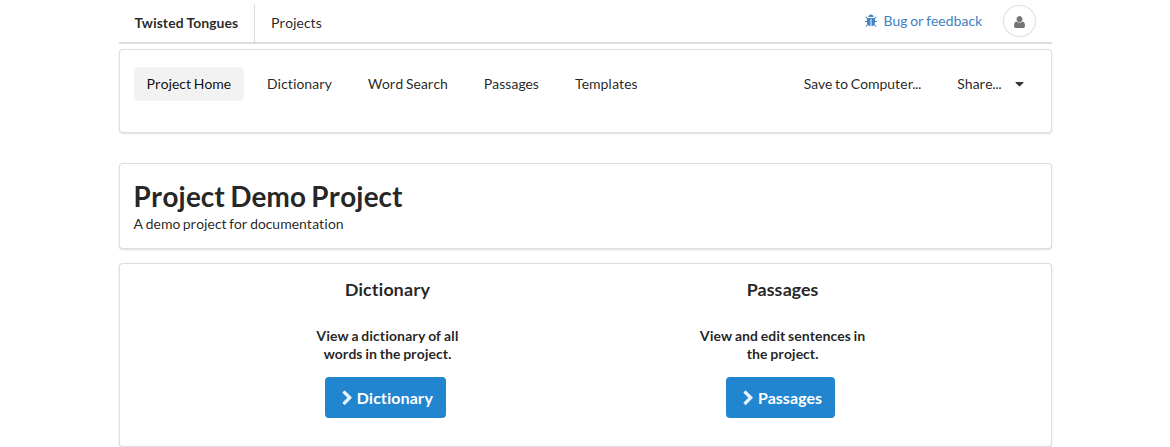
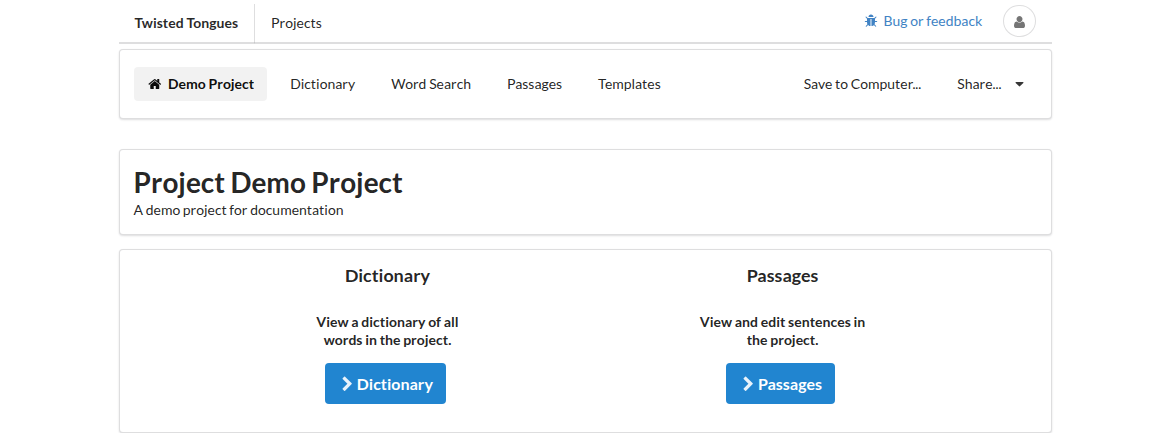
Refresh the manual's figures, and document the sentence row's menu (#23)
* Refresh the manual's figures, and document the sentence row's menu

All 25 figures regenerated against 20261024.2. The passage screen now shows
each sentence's line number and permanent id, one "More..." menu where three
buttons used to be, and the passage's description under its name. The first
nav tab names the project rather than reading "Project Home", which the
shipped figures never caught up with.

The dictionary figure reports six matches rather than two: the spec that
generates these had been typing all three demo sentences' words into the
first sentence (fixed in twisted-tongues-v2#217), so the manual was showing
a third of its own example data.

Section 4.2 gains the row menu -- Insert new above, Duplicate here,
Duplicate at end, Delete -- plus what a line number and an id each promise,
and what a reader following a Context link to a deleted sentence is told.
Both languages.

* Trim the 4.2 prose to the operations themselves

---------

diff --git a/src/manual.fr.md b/src/manual.fr.md
@@ -87,7 +87,7 @@ Les passages peuvent être découpés de la manière qui paraît la plus pertine
 
 ### 4.1 Créer un passage {#4.1-creating-a-passage}
 
-Pour créer un passage, allez dans l'onglet « Passages » et cliquez sur « Add Passage » (ajouter un passage). Nommez le passage et décrivez-le. Si vous le souhaitez, les métadonnées du passage peuvent être conservées dans la description (« Description »). Il est recommandé, lors de la création d'un passage, de choisir un *modèle* de pistes défini au préalable (voir section 3), qui sera présent dans chaque phrase de ce passage. Pour choisir un modèle, sélectionnez-le dans le menu déroulant « Tracks from template » (pistes issues d'un modèle) (figure 11). L'utilisateur peut aussi sélectionner « None » (aucun) dans le menu déroulant et personnaliser les pistes ajoutées pour ce passage précis. Après un clic sur « Submit », le passage est créé et ajouté à la liste des passages dans l'onglet « Passages » (figure 12). La ligne de chaque passage se termine par un bouton de menu (⋮). « Rename… » (renommer) y modifie le nom et la description du passage, et « Delete… » (supprimer) supprime le passage, après vous avoir demandé de confirmer que vous souhaitez le supprimer définitivement (figure 13). Les lecteurs ne voient pas ce menu.
+Pour créer un passage, allez dans l'onglet « Passages » et cliquez sur « Add Passage » (ajouter un passage). Nommez le passage et décrivez-le. Si vous le souhaitez, les métadonnées du passage peuvent être conservées dans la description (« Description »), qui s'affiche sous le nom du passage lorsque celui-ci est ouvert. Il est recommandé, lors de la création d'un passage, de choisir un *modèle* de pistes défini au préalable (voir section 3), qui sera présent dans chaque phrase de ce passage. Pour choisir un modèle, sélectionnez-le dans le menu déroulant « Tracks from template » (pistes issues d'un modèle) (figure 11). L'utilisateur peut aussi sélectionner « None » (aucun) dans le menu déroulant et personnaliser les pistes ajoutées pour ce passage précis. Après un clic sur « Submit », le passage est créé et ajouté à la liste des passages dans l'onglet « Passages » (figure 12). La ligne de chaque passage se termine par un bouton de menu (⋮). « Rename… » (renommer) y modifie le nom et la description du passage, et « Delete… » (supprimer) supprime le passage, après vous avoir demandé de confirmer que vous souhaitez le supprimer définitivement (figure 13). Les lecteurs ne voient pas ce menu.
 
 Figure 11\. Ajouter un passage et sélectionner un modèle.  
 ![](images/figure_011_add_passage_and_select_template.png)
@@ -101,6 +101,10 @@ Figure 13\. Supprimer un passage.
 ### 4.2 Saisir des données dans un passage {#4.2-entering-data-into-a-passage}
 
 Dans l'onglet « Passages », cliquez sur un passage pour en consulter et en modifier les données. Si aucune donnée n'a encore été saisie pour le passage sélectionné, celui-ci est vide. Pour ajouter des phrases à remplir, cliquez sur « Add sentence » (ajouter une phrase). Si un modèle a été choisi pour le passage, les pistes associées apparaissent à l'ajout d'une phrase. Il suffit alors de taper pour saisir les données de la phrase. Chaque nouvelle phrase ajoutée est par défaut marquée comme grammaticale (« Grammatical »), avec une case cochée dans le coin supérieur gauche de l'énoncé. Pour marquer une phrase comme agrammaticale, décochez la case. Chaque phrase est de même marquée par défaut comme appropriée (« Felicitous ») ; pour marquer une phrase comme pragmatiquement inappropriée, décochez cette case (voir la section 5.1.3 pour l'effet de ces marquages sur la recherche et l'export). Dès que des données sont ajoutées à une phrase (figure 14), le bouton vert « clean » (propre) devient un bouton jaune « dirty » (non sauvegardé), ce qui signifie que les données ajoutées ne sont pas encore enregistrées (figure 15). Avant de quitter la page, il vous sera proposé d'enregistrer toutes les données nouvellement saisies. En cas de conflit — plusieurs utilisateurs tentant de modifier la même phrase simultanément, ou un même utilisateur essayant d'enregistrer deux versions de la même phrase avant que la page n'ait sauvegardé la première modification —, un bouton rouge « Conflict » (conflit) peut apparaître (figure 16). Dans ce cas, il suffit d'actualiser la page. Pour ajouter d'autres données, cliquez sur « Add sentence » et répétez la procédure ci-dessus.
+
+Les phrases sont numérotées sur la gauche du passage — (1), (2), (3) — et chaque ligne affiche également un identifiant permanent. Les numéros changent dès qu'une phrase est ajoutée ou supprimée au-dessus ; l'identifiant, lui, ne change pas, de sorte qu'un lien « Context » (section 5.4) ouvre toujours la même phrase.
+
+La ligne de chaque phrase porte un menu « More… » (plus), qui regroupe les opérations les moins courantes. « Insert new above » (insérer au-dessus) place une phrase vide juste au-dessus de cette ligne. « Duplicate here » (dupliquer ici) copie la phrase sur la ligne immédiatement en dessous, et « Duplicate at end » (dupliquer à la fin) la copie tout en bas du passage. « Delete… » (supprimer) supprime la phrase, après vous avoir demandé de confirmer. Une phrase comportant des modifications non enregistrées ne peut être ni copiée ni supprimée : enregistrez-la d'abord. Les lecteurs ne voient pas ce menu.
 
 Figure 14\. Ajouter une phrase, avant la saisie des données.  
 ![](images/figure_014_add_sentence_empty.png)

diff --git a/src/manual.md b/src/manual.md
@@ -87,7 +87,7 @@ Passages can be divided however the user decides makes the most sense for a give
 
 ### 4.1 Creating a passage {#4.1-creating-a-passage}
 
-To create a passage, go to the Passages tab, and click on “Add Passage”. Name the passage and describe it. If desired, passage metadata can be stored in the “Description”. It is recommended upon creating a passage to choose a previously defined *template* of tracks (see section 3), which will be present in each sentence in that passage. To choose a template, select one from the drop-down menu labelled “Tracks from template” (Figure 11). Alternatively, the user can select “None” in the drop-down menu and can customize the tracks added for the specific passage. Upon clicking “Submit”, the passage will be created and added to the list of passages in the Passages tab (Figure 12). Each passage's row ends in a menu button (⋮). “Rename…” there changes the passage's name and description, and “Delete…” removes the passage, after asking you to confirm that you would like to permanently delete it (Figure 13). Readers see no menu.
+To create a passage, go to the Passages tab, and click on “Add Passage”. Name the passage and describe it. If desired, passage metadata can be stored in the “Description”, which is shown under the passage's name when the passage is open. It is recommended upon creating a passage to choose a previously defined *template* of tracks (see section 3), which will be present in each sentence in that passage. To choose a template, select one from the drop-down menu labelled “Tracks from template” (Figure 11). Alternatively, the user can select “None” in the drop-down menu and can customize the tracks added for the specific passage. Upon clicking “Submit”, the passage will be created and added to the list of passages in the Passages tab (Figure 12). Each passage's row ends in a menu button (⋮). “Rename…” there changes the passage's name and description, and “Delete…” removes the passage, after asking you to confirm that you would like to permanently delete it (Figure 13). Readers see no menu.
 
 Figure 11\. Add passage and select template.  
 ![](images/figure_011_add_passage_and_select_template.png)
@@ -101,6 +101,10 @@ Figure 13\. Delete passage.
 ### 4.2 Entering data into a passage {#4.2-entering-data-into-a-passage}
 
 In the Passages tab, click a passage to view and edit the data in it. If no data has yet been entered for the selected passage, the passage will be empty. To add sentences to be filled in, click “Add sentence”. If a template has been selected for the passage, tracks associated with that passage will appear upon adding a sentence. One can then type to enter data into the sentence. Each new sentence added is by default marked as “Grammatical” with a checkmark in the upper left corner of the utterance. To mark a sentence as ungrammatical, un-check the box. Each sentence is likewise marked as “Felicitous” by default; to mark a sentence as pragmatically infelicitous, un-check that box (see section 5.1.3 for how both markings affect search and export). Upon adding data to a sentence (Figure 14), the green “clean” button will change to a yellow “dirty” button, meaning that the added data is unsaved (Figure 15). Before leaving the page, you will be prompted to save all newly entered data. If there are conflicts with multiple users attempting to edit the same sentence simultaneously (or if a single user tries to save two versions of the same sentence before the page has backed up the first change), a red “Conflict” button may appear (Figure 16). If this is the case, simply refresh the page. To add additional data, click “Add sentence”, and repeat the above process.
+
+Sentences are numbered down the left of the passage — (1), (2), (3) — and each row also shows a permanent id. The numbers change as sentences are added or removed above them; the id does not, so a Context link (section 5.4) always opens the same sentence.
+
+Each sentence's row carries a “More…” menu, holding the operations needed less often. “Insert new above” puts a new, empty sentence immediately above that row. “Duplicate here” copies the sentence onto the line below it, and “Duplicate at end” copies it to the bottom of the passage. “Delete…” removes the sentence, after asking you to confirm. A sentence with unsaved changes cannot be copied or deleted: save it first. Readers see no menu.
 
 Figure 14\. Add sentence, before typing in the data.  
 ![](images/figure_014_add_sentence_empty.png)
